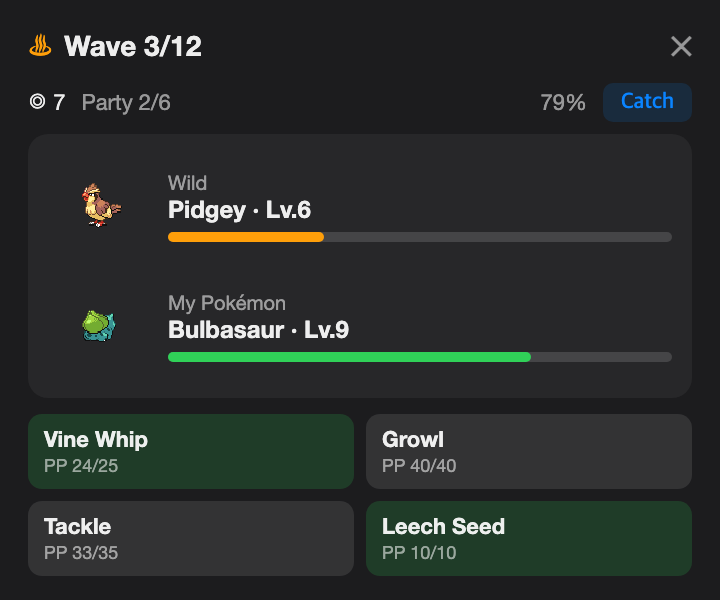
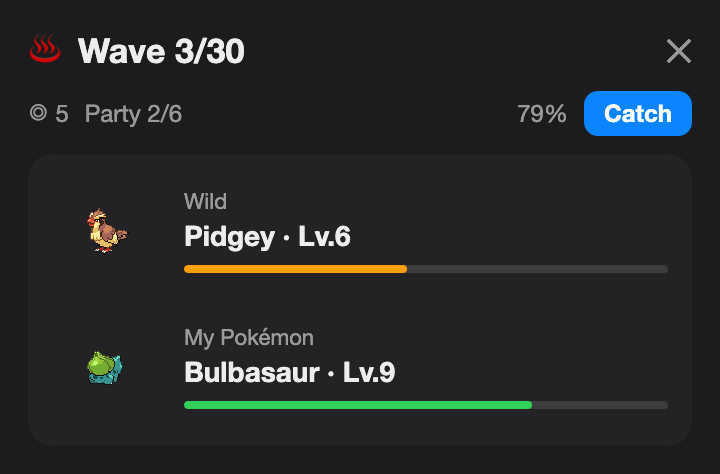
Document the 30-wave run and its two-on-two battles
The README trio still described the run as a 12-wave prototype that lived
in memory only, with seven balls and doubles starting at wave nine. Bring
the three languages up to what the code now does: 30 waves, a boss every
fourth wave that heals the party to 70%, five balls (nine at most), doubles
rolled on roughly one wild wave in eight, and a run that survives quitting
the app.

Regenerate the run screenshots (they showed "Wave 4/12") and add a new
`screenshot-run-double` set, since a two-on-two field is a screen no
existing asset covered.

diff --git a/README.md b/README.md
@@ -42,7 +42,7 @@ Pokédoro는 집중하는 동안 포켓몬 파트너를 모험에 보내고, 수
 
 - **트레이너 꾸미기** — 모자·머리·상의·하의·소품 다섯 슬롯에 도트 의상 12종을 겹쳐 입힙니다. 8종은 상점에서 별의조각으로 사고, 4종은 업적 단계 보상으로 받습니다.
 - **근처 트레이너 카드** — 친구 탭에서 상대의 꾸민 아바타, 랭크 티어 색, 대표 포켓몬을 함께 봅니다.
-- **웨이브 런(프로토타입)** — 첫 포켓몬을 골라 12 웨이브에 도전합니다. 4웨이브마다 보스가 나오고, 웨이브를 넘길 때마다 아이템 하나를 고릅니다. 야생 웨이브에서는 몬스터볼(판당 7개)을 던져 상대를 잡아 파티를 여섯 마리까지 늘릴 수 있고, 9웨이브부터는 상대가 둘씩 나옵니다. 판은 매번 새로 뽑히며 하루 횟수 제한이 없습니다. 메모리에만 있어 창을 닫아도 이어지지만 앱을 종료하면 사라집니다.
+- **웨이브 런** — 첫 포켓몬을 골라 30 웨이브에 도전합니다. 4웨이브마다 보스가 나오고(넘을 때마다 파티 HP 를 70% 까지 회복), 웨이브를 넘길 때마다 아이템 하나를 고릅니다. 야생 웨이브에서는 몬스터볼(판당 5개, 최대 9개)을 던져 상대를 잡아 파티를 여섯 마리까지 늘릴 수 있습니다. 야생 웨이브 여덟 번 중 한 번꼴로 상대가 둘씩 나오고, 이때는 내 포켓몬도 둘이 함께 서는 2대2 전투가 됩니다 — 칸마다 행동을 정하고, 지진처럼 범위가 넓은 기술은 필드의 여러 마리를 한 번에 때립니다. 판은 매번 새로 뽑히고 하루 횟수 제한이 없으며, 진행 중인 판은 앱을 껐다 켜도 이어집니다.
 
 ## 화면 둘러보기
 
@@ -76,10 +76,10 @@ Pokédoro는 집중하는 동안 포켓몬 파트너를 모험에 보내고, 수
 <td width="45%" align="center"><img src="assets/settings-ko.png" width="180" alt="설정"></td>
 </tr>
 <tr>
-<td width="45%" align="center"><img src="assets/screenshot-outfit-ko.png" width="180" alt="꾸미기"><br><br><img src="assets/screenshot-run-ko.png" width="180" alt="웨이브 런 보상 선택"><br><br><img src="assets/screenshot-run-catch-ko.png" width="180" alt="웨이브 런 포획"></td>
+<td width="45%" align="center"><img src="assets/screenshot-outfit-ko.png" width="180" alt="꾸미기"><br><br><img src="assets/screenshot-run-double-ko.png" width="180" alt="웨이브 런 2대2 전투"><br><br><img src="assets/screenshot-run-ko.png" width="180" alt="웨이브 런 보상 선택"><br><br><img src="assets/screenshot-run-catch-ko.png" width="180" alt="웨이브 런 포획"></td>
 <td width="55%" valign="middle">
 <h3>꾸미기와 웨이브 런</h3>
-트레이너에게 의상을 갈아입히고, 웨이브 런에서 판을 넘길 때마다 보상 아이템 하나를 고릅니다. 야생 웨이브에서는 성공률을 보고 몬스터볼을 던져 상대를 파티에 넣습니다.
+트레이너에게 의상을 갈아입히고, 웨이브 런에서 판을 넘길 때마다 보상 아이템 하나를 고릅니다. 상대가 둘 나오는 웨이브에서는 내 포켓몬 둘이 함께 서서 칸마다 행동을 정하고, 범위가 넓은 기술은 여러 마리를 한 번에 때립니다. 야생 웨이브에서는 성공률을 보고 몬스터볼을 던져 상대를 파티에 넣습니다.
 </td>
 </tr>
 </table>

diff --git a/README.en.md b/README.en.md
@@ -42,7 +42,7 @@ You can enable Do Not Disturb to block system notifications, the floating pet, a
 
 - **Trainer wardrobe** — dress the trainer with 12 layered pixel items across five slots (hat, hair, top, bottom, accessory). Eight are sold in the Shop for Star Pieces; the other four come from achievement tiers.
 - **Nearby trainer cards** — the Friends tab shows each peer's dressed avatar, ranked tier color, and partner Pokémon.
-- **Wave run (prototype)** — pick a starter and take on 12 waves, with a boss every fourth wave and one item pick after each wave. On wild waves you can throw one of the run's seven balls to catch your opponent and grow the party to six, and from wave nine on two opponents come at once. Every run is drawn fresh and there is no daily limit. A run lives in memory only: closing the window keeps it going, quitting the app drops it.
+- **Wave run** — pick a starter and take on 30 waves, with a boss every fourth wave (clearing one heals the party back to 70% HP) and one item pick after each wave. On wild waves you can throw one of the run's five balls (nine at most) to catch your opponent and grow the party to six. Roughly one wild wave in eight sends two opponents at once, and those are fought two-on-two with both of your Pokémon on the field — you choose an action per slot, and wide-reaching moves such as Earthquake hit several Pokémon in one go. Every run is drawn fresh, there is no daily limit, and a run in progress survives quitting and reopening the app.
 
 ## Tour
 
@@ -76,10 +76,10 @@ Control Do Not Disturb, notifications, launch at login, the floating pet, and up
 <td width="45%" align="center"><img src="assets/settings.png" width="180" alt="Settings"></td>
 </tr>
 <tr>
-<td width="45%" align="center"><img src="assets/screenshot-outfit.png" width="180" alt="Wardrobe"><br><br><img src="assets/screenshot-run.png" width="180" alt="Wave run reward pick"><br><br><img src="assets/screenshot-run-catch.png" width="180" alt="Catching on a wave run"></td>
+<td width="45%" align="center"><img src="assets/screenshot-outfit.png" width="180" alt="Wardrobe"><br><br><img src="assets/screenshot-run-double.png" width="180" alt="Two-on-two wave run battle"><br><br><img src="assets/screenshot-run.png" width="180" alt="Wave run reward pick"><br><br><img src="assets/screenshot-run-catch.png" width="180" alt="Catching on a wave run"></td>
 <td width="55%" valign="middle">
 <h3>Wardrobe and wave run</h3>
-Change the trainer's outfit, and pick one reward item after every wave you clear. On wild waves the catch chance is shown before you spend a ball.
+Change the trainer's outfit, and pick one reward item after every wave you clear. Waves that send two opponents are fought two-on-two: you choose an action per slot, and wide-reaching moves hit several Pokémon at once. On wild waves the catch chance is shown before you spend a ball.
 </td>
 </tr>
 </table>
